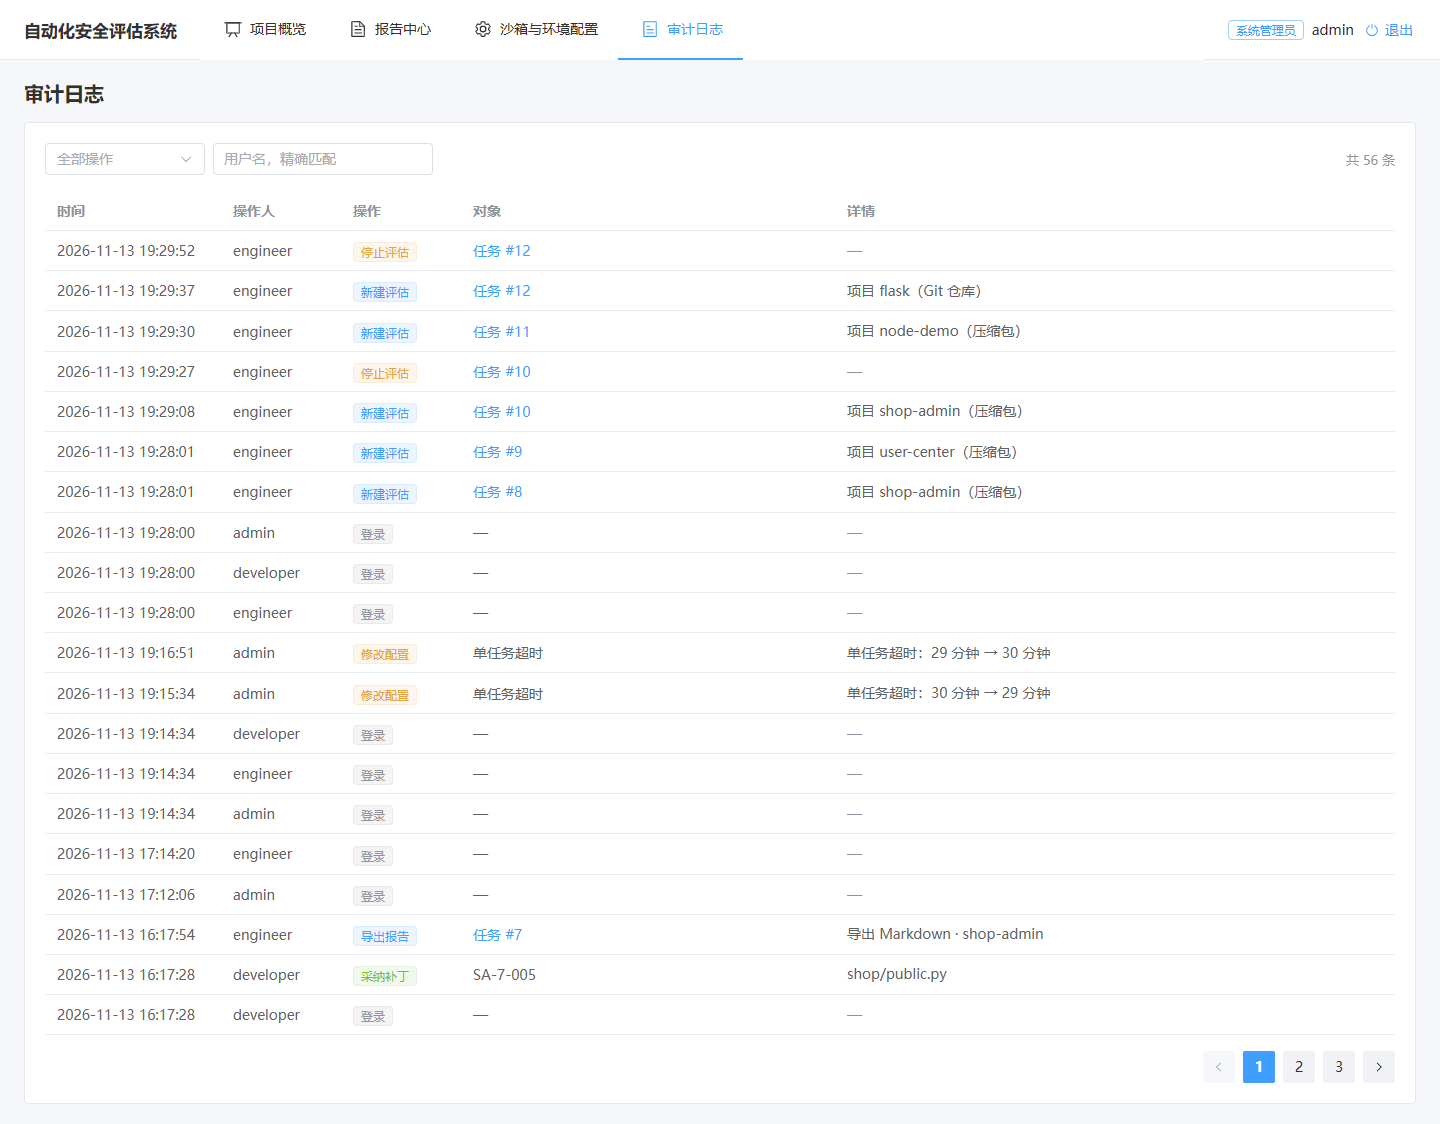
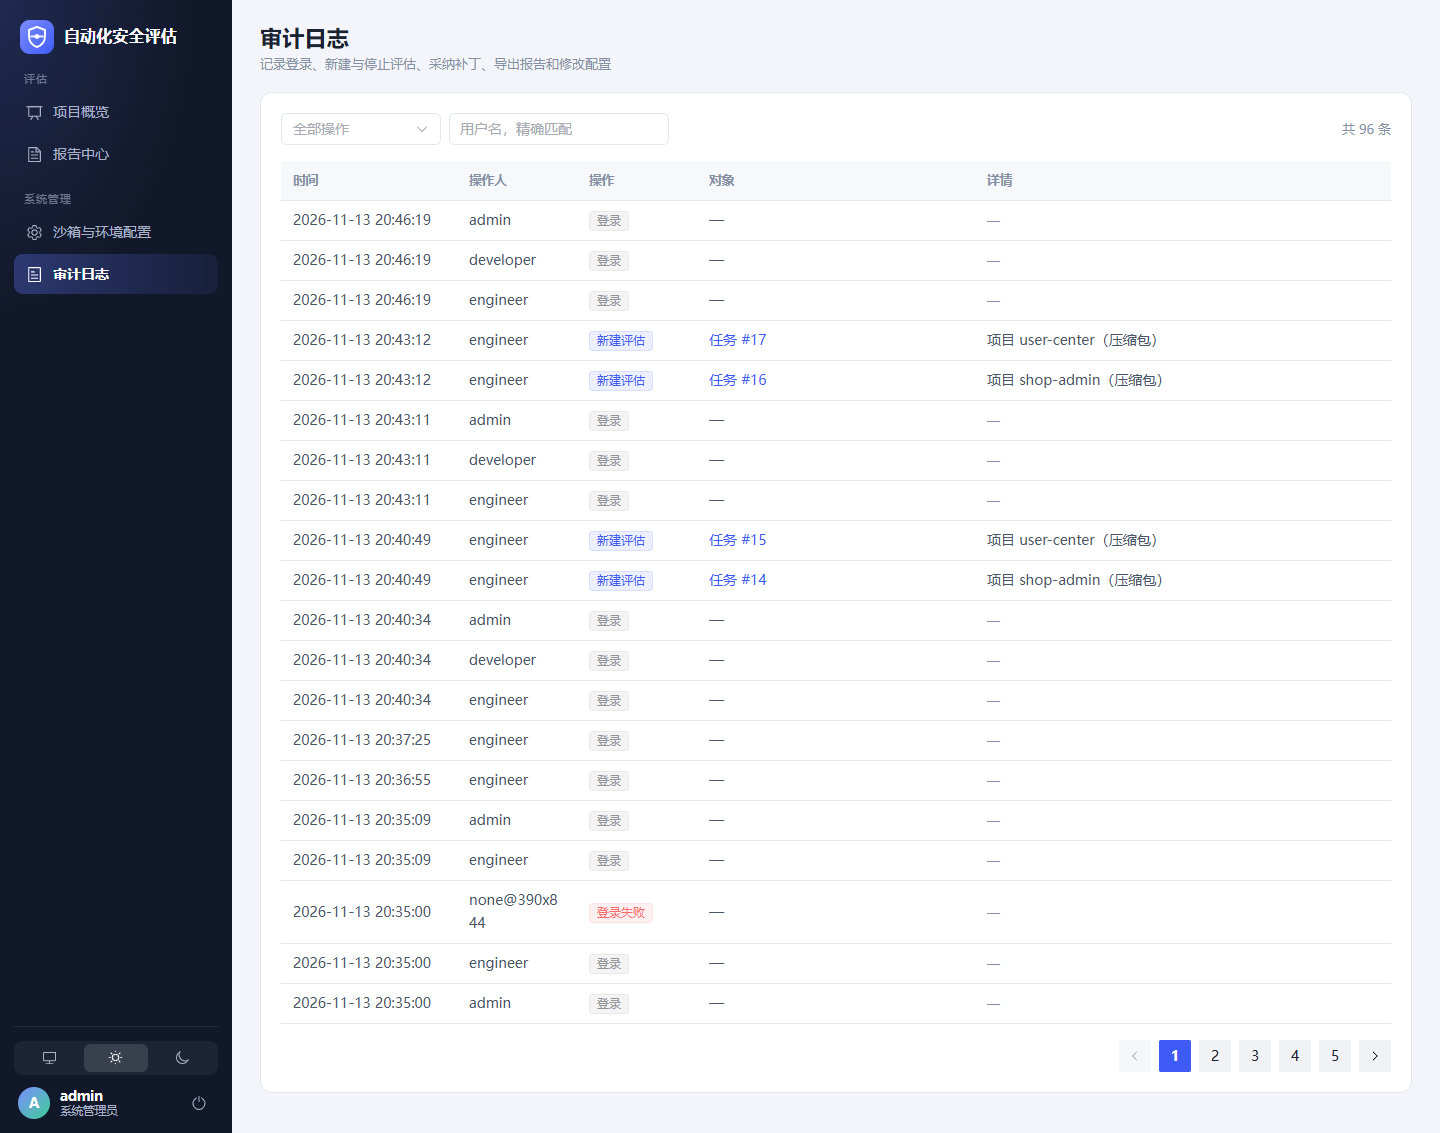
Retake acceptance screenshots for the new layout
- Retake screenshots 01-17 with the redesigned UI. 01 and 03 use
  reassessment tasks #16 and #17 for the running and queued states;
  the others use tasks #8, #9 and #13 as cited in the record.
- Add 19-user-center-no-path.png: the attack graph is now on its own
  tab, so the "no multi-step path" note is no longer in screenshot 12.
- Lower the diff editor's side-by-side breakpoint from 760px to 640px
  so the patch comparison stays side by side in the workbench detail
  panel (about 700px wide at 1440px).

diff --git a/frontend/src/components/DiffViewer.vue b/frontend/src/components/DiffViewer.vue
@@ -31,9 +31,9 @@ onMounted(() => {
     domReadOnly: true,
     automaticLayout: true,
     renderSideBySide: true,
-    // 宽度不够时改为上下对照
+    // 宽度不够时改为上下对照；工作台详情区在 1440 宽屏幕上约 700px，仍保持左右对照
     useInlineViewWhenSpaceIsLimited: true,
-    renderSideBySideInlineBreakpoint: 760,
+    renderSideBySideInlineBreakpoint: 640,
     // 折叠未改动的大段代码，只展开修改处及上下文
     hideUnchangedRegions: { enabled: true, contextLineCount: 3, minimumLineCount: 6, revealLineCount: 10 },
     // 左右各占一半宽度，长行折行显示

diff --git a/docs/验收记录.md b/docs/验收记录.md
@@ -30,7 +30,7 @@
 | --- | --- | --- |
 | US1-1 五阶段跑到 completed | 通过 | 任务 #8；`test_shop_admin_assessment`；截图 04 |
 | US1-2 动态验证阶段停止 | 通过 | 任务 #13 停在动态验证，容器销毁，疑似漏洞可查看；任务 #10 停止后 7 条已验证漏洞可查看；`test_stop_keeps_findings_and_removes_container`；截图 13 |
-| US1-3 日志持续追加、资源曲线持续显示 | 通过 | 任务 #8 运行中收到 70 条日志事件和 18 条资源事件；截图 03 |
+| US1-3 日志持续追加、资源曲线持续显示 | 通过 | 任务 #8 运行中收到 70 条日志事件和 18 条资源事件；截图 03（界面改版后重拍，为任务 #16 运行中） |
 | US1-4 缺包靶场自动准备依赖并进入动态验证 | 通过 | 任务 #9 日志：“依赖准备完成：从 wheel 安装 1 项，使用镜像预装 1 项”，PyJWT 2.9.0 不在预装镜像中；`test_user_center_dependency_is_prepared` |
 | US2-1 已验证 SQL 注入的触发行、轨迹与报文 | 通过 | 截图 05：代码视图高亮 `shop/public.py:21`，轨迹 3 步各带路径、行号和代码片段；截图 06：响应原文，命中特征 `A10A2D0ED43.46.1`（随机标记与 SQLite 版本号拼接） |
 | US2-2 未命中的候选为疑似、不高于中危、分组显示 | 通过（核对后修正） | `test_verification_updates_status_and_saves_evidence` 断言未命中降为中危，`test_unverified_findings_capped_at_medium` 断言没发探针的疑似同样封顶；截图 07 为疑似分组。两个靶场上发出的探针全部命中，演示中没有出现未命中的候选 |
@@ -41,7 +41,7 @@
 | US5-1 unified diff 与左右对比 | 通过 | 截图 10 |
 | US5-2 采纳写审计，`.patch` 可应用 | 通过 | 研发人员采纳 SA-8-005 后审计日志新增 developer 的 patch_adopt 记录；任务 #8、#9 的 9 个 `.patch` 在原工程副本上 `git apply --check` 全部通过 |
 | US6-1 调低超时后新任务超时失败 | 通过 | `test_lowered_timeout_fails_new_task`：失败原因“超过任务总时长上限（1 分钟）”，容器被销毁 |
-| US6-2 达到并发上限时排队 | 通过 | 任务 #9 提交时为 created，#8 结束后自动开始；截图 01 显示“评估中 1、排队中 1”；`test_raising_concurrency_starts_queued_task` |
+| US6-2 达到并发上限时排队 | 通过 | 任务 #9 提交时为 created，#8 结束后自动开始；截图 01 显示“评估中 1、排队中 1”（界面改版后重拍，为任务 #16 运行、#17 排队）；`test_raising_concurrency_starts_queued_task` |
 | US6-3 非管理员看不到配置页，接口被拒 | 通过 | 截图 16：安全工程师菜单只有项目概览和报告中心，打开配置页被拦回概览；`test_role_matrix` |
 
 ## 功能需求
@@ -100,7 +100,7 @@
 | PoC 让进程崩溃 | 代码审阅 | `_ensure_alive` 在连接失败时重启副本后继续；没有专门的自动化测试 |
 | 大模型不可用 | 通过 | `test_falls_back_to_default_vectors_without_model`、`test_report_stage_skips_patches_without_model`、`test_agent_template_text` |
 | 没有发现漏洞 | 通过 | `test_report_without_findings`：等级为“安全” |
-| 没有能力衔接 | 通过 | `test_report_explains_missing_multi_step_path`；任务 #9 显示“多步攻击路径 0 条”及原因（截图 12） |
+| 没有能力衔接 | 通过 | `test_report_explains_missing_multi_step_path`；任务 #9 显示“多步攻击路径 0 条”及原因（截图 19） |
 | 任务超时 | 通过 | `test_lowered_timeout_fails_new_task` |
 | 后端重启时有 running 任务 | 代码审阅 | `runner.start` 把 running 任务置为 failed（“后端重启，任务中断”）并清理遗留容器；遗留清理有 `test_cleanup_leftovers_spares_other_instances` |
 
@@ -125,10 +125,12 @@
 
 ## 其他观察
 
-- 手机宽度下工作台可用，没有横向滚动；阶段名和详情表的表头会被挤成每行一两个字（截图 17）。SPEC 没有移动端要求，未调整。
+- 手机宽度下工作台可用，没有横向滚动（截图 17）。核对时阶段名和详情表的表头会被挤成每行一两个字，界面改版（D-030）后阶段改为纵向排列，详情改为卡片布局，不再出现。
 - 每次 zip 上传都会新建一个项目，开发库里同名项目有多条（截图 01）。同一工程的复评可以用大盘上的“重新评估”。
 
 ## 截图清单
+
+01–17 与 19 按界面改版（D-030）后的界面重拍，固定浅色主题。01、03 需要运行中与排队中的评估，为重拍时对已有项目重新评估的任务 #16、#17；其余沿用正文引用的任务 #8、#9、#13。18 为导出的 PDF 页面，不受改版影响，未重拍。
 
 | 文件 | 内容 |
 | --- | --- |
@@ -150,3 +152,4 @@
 | 16-engineer-dashboard.png | 安全工程师打开配置页被拦回概览 |
 | 17-mobile-workbench.png | 手机宽度下的工作台 |
 | 18-report-pdf-charts.png | 导出 PDF 第 2 页：CVSS 分布与类型占比饼图 |
+| 19-user-center-no-path.png | 用户中心靶场的攻击路径图：没有多步路径及原因 |
